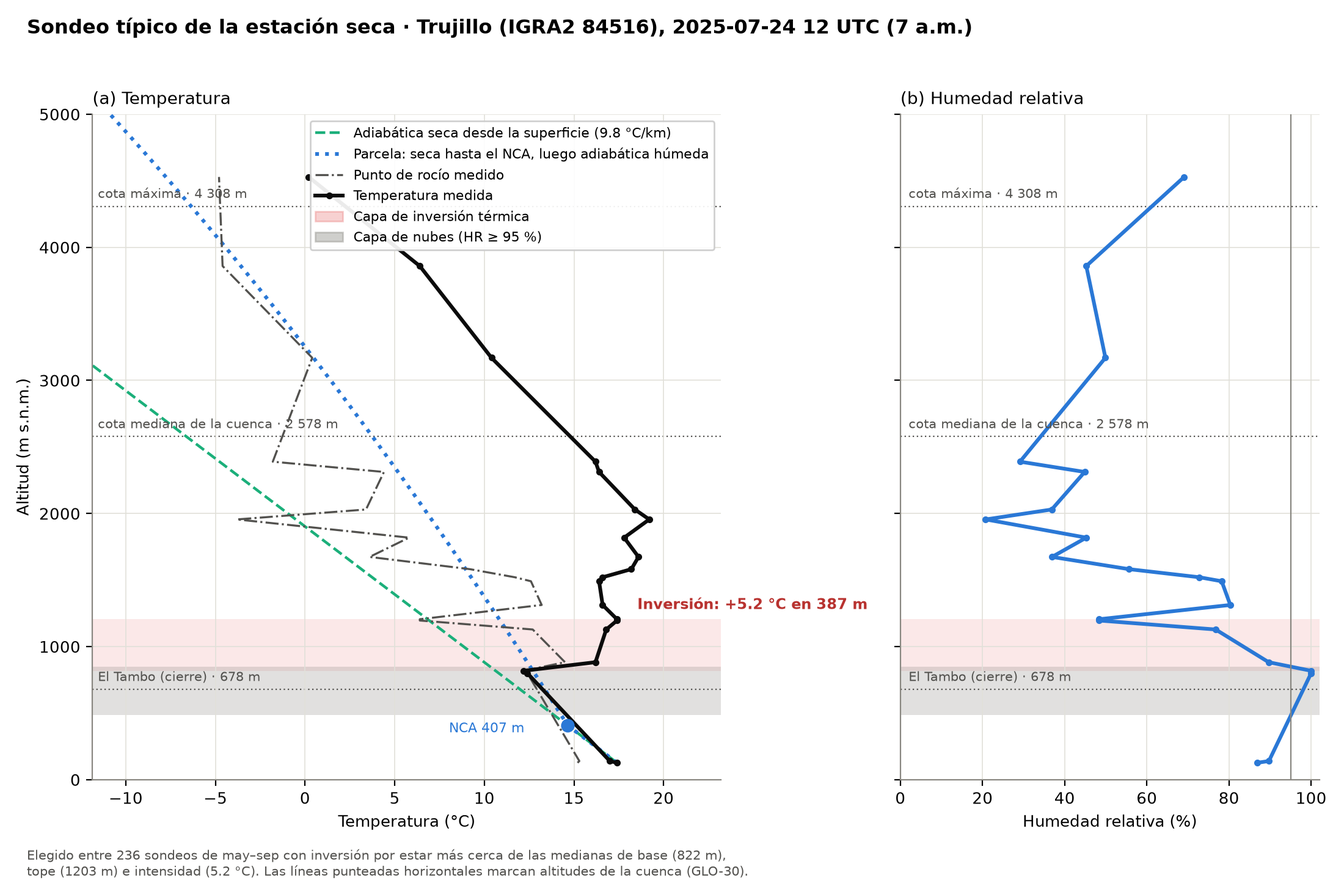
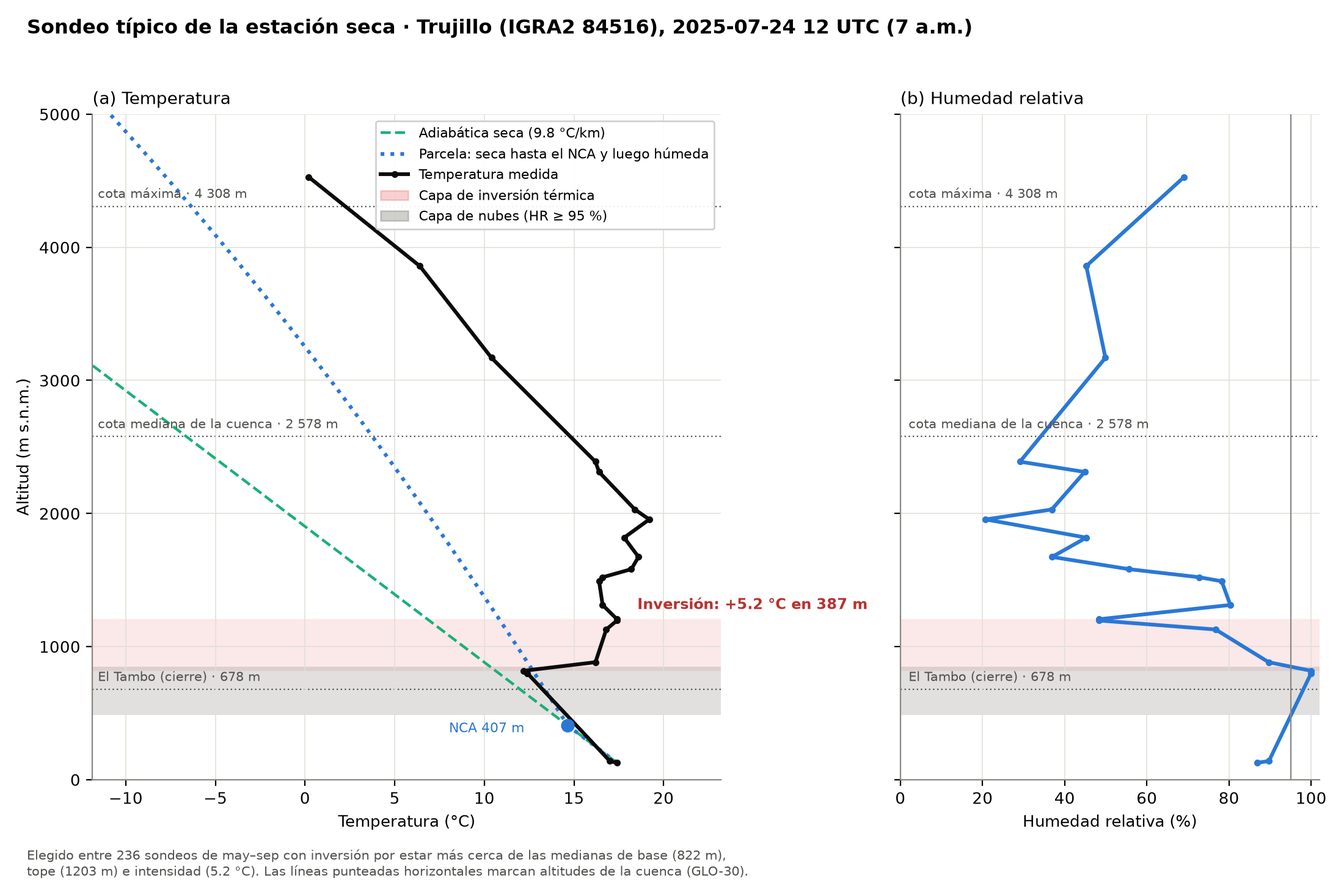
Contexto: humedad e inversión por temporada en una figura; DEM solo con ubicación
- 31_temporadas_humedad_inversion.py: por temporada (seca / húmeda), IVT de
  ERA5 y perfil de temperatura de los sondeos con la capa de inversión.
- Sondeo típico más limpio (sin punto de rocío).
- Mapa de la cuenca sin el recuadro de IVT; queda la ubicación regional.

Changed region(s): [[0.2164, 0.125, 0.4945, 0.2812], [0.3091, 0.6875, 0.4018, 0.7188], [0.4636, 0.25, 0.4945, 0.2812]]

diff --git a/index.html b/index.html
@@ -125,13 +125,13 @@ footer .wrap{padding-top:18px;padding-bottom:26px}
 </div></nav>
 <main><div class="wrap"><section class="panel" id="tab-cuenca" data-tab="cuenca" hidden><h2>La cuenca y su delimitación</h2><p class="intro">Río Chicama hasta la estación hidrométrica El Tambo (SENAMHI 211003; CAMELS-PE PE_47E0A2A8), en la vertiente del Pacífico del norte del Perú (−7.574°, −78.707°; 684 m s.n.m.). La cuenca se delimitó con el modelo digital de elevación Copernicus GLO-30; coincide con el polígono oficial de CAMELS-PE (intersección sobre unión 0.994).</p>
 <article class="fig">
-  <header class="fig-h"><h3>Mapa de la cuenca, relieve y fuentes de humedad</h3><span class="tipo">imagen</span></header>
-  <div class="fig-cuerpo"><button class="zoom" data-full="Tarea%201/El_Tambo/resultados/delimitacion/mapa_cuenca_el_tambo.png" aria-label="Ampliar: Mapa de la cuenca, relieve y fuentes de humedad"><img loading="lazy" src="web/img/mapa_cuenca_el_tambo.png" alt="Mapa de la cuenca, relieve y fuentes de humedad"></button></div>
+  <header class="fig-h"><h3>Mapa de la cuenca y relieve</h3><span class="tipo">imagen</span></header>
+  <div class="fig-cuerpo"><button class="zoom" data-full="Tarea%201/El_Tambo/resultados/delimitacion/mapa_cuenca_el_tambo.png" aria-label="Ampliar: Mapa de la cuenca y relieve"><img loading="lazy" src="web/img/mapa_cuenca_el_tambo.png" alt="Mapa de la cuenca y relieve"></button></div>
   <div class="fig-texto">
-    <div><h4>Qué muestra</h4><p>Relieve sombreado del DEM  límite de la cuenca  río Chicama  red de drenaje  punto de cierre y estaciones de SENAMHI. Área 2 170 km²  cotas de 678 a 4 308 m s.n.m. (mediana 2 578 m) y pendiente media de 27°. La integral hipsométrica (0.52) indica un <b>relieve intermedio</b>: la mitad del área está por encima de la cota media  a media ladera  y no concentrada en la cabecera ni en el valle bajo. <b>Fuentes de humedad.</b> El recuadro de Sudamérica muestra el transporte de vapor de ERA5 en la estación húmeda (dic–abr): la humedad sale del Atlántico tropical, cruza la Amazonía con los alisios del este y llega a la cuenca por encima de los Andes, desde el este. Por eso llueve más en las cabeceras del sureste y la lluvia se concentra en verano, cuando la convección sobre los Andes toma esa humedad. Del lado del Pacífico, el aire marino es frío y húmedo (corriente de Humboldt) pero queda atrapado bajo la inversión térmica, cerca de la salida de la cuenca (ver <i>Contexto físico</i>), así que aporta nubes bajas y poca lluvia.</p><p class="leer"><b>Cómo leerla.</b> El transporte de humedad no equivale a lluvia: llueve donde el flujo converge y asciende. ERA5 no resuelve la circulación dentro de los valles.</p></div>
-    <div><h4>Cómo se construyó</h4><p>Mosaico de dos teselas Copernicus GLO-30 (30 m), recortado y reproyectado a UTM 17S. El DEM se acondicionó (relleno de depresiones y zonas planas) y se calcularon direcciones de flujo D8 y área acumulada con pysheds; el punto de cierre se ajustó a la celda de mayor área acumulada en un radio de 1.5 km de la estación. La red de drenaje son las celdas con más de 5 km² de área drenada. Integral hipsométrica = (cota media − mínima) / (máxima − mínima). Recuadro: flujo de vapor integrado en la vertical (IVT) de ERA5 mensual (0.5°, promediado a 1°), media de dic–abr del periodo común; color = magnitud, flechas = dirección. Estaciones: mapa web de SENAMHI (copia del 2026-10-06).</p></div>
+    <div><h4>Qué muestra</h4><p>Relieve sombreado del DEM  límite de la cuenca  río Chicama  red de drenaje  punto de cierre  estaciones de SENAMHI y ubicación regional (Sudamérica y Perú). Área 2 170 km²  cotas de 678 a 4 308 m s.n.m. (mediana 2 578 m) y pendiente media de 27°. La integral hipsométrica (0.52) indica un <b>relieve intermedio</b>: la mitad del área está por encima de la cota media  a media ladera  y no concentrada en la cabecera ni en el valle bajo. Las fuentes de humedad se discuten en <i>Contexto físico</i>.</p></div>
+    <div><h4>Cómo se construyó</h4><p>Mosaico de dos teselas Copernicus GLO-30 (30 m), recortado y reproyectado a UTM 17S. El DEM se acondicionó (relleno de depresiones y zonas planas) y se calcularon direcciones de flujo D8 y área acumulada con pysheds; el punto de cierre se ajustó a la celda de mayor área acumulada en un radio de 1.5 km de la estación. La red de drenaje son las celdas con más de 5 km² de área drenada. Integral hipsométrica = (cota media − mínima) / (máxima − mínima). Estaciones: mapa web de SENAMHI (copia del 2026-10-06); límites: Natural Earth.</p></div>
   </div>
-  <p class="meta"><span class="script">06_delimitacion_el_tambo_glo30.py, 24_era5_vientos_humedad.py</span> · <a href="Tarea%201/El_Tambo/resultados/delimitacion/mapa_cuenca_el_tambo.png" target="_blank" rel="noopener">PNG en resolución completa</a> · Datos: <a href="Tarea%201/El_Tambo/resultados/delimitacion/parametros_morfometricos.csv" download>parametros_morfometricos.csv</a> · <a href="Tarea%201/El_Tambo/resultados/delimitacion/curva_hipsometrica.csv" download>curva_hipsometrica.csv</a> · <a href="Tarea%201/El_Tambo/resultados/delimitacion/estaciones_senamhi_mapa.csv" download>estaciones_senamhi_mapa.csv</a></p>
+  <p class="meta"><span class="script">06_delimitacion_el_tambo_glo30.py</span> · <a href="Tarea%201/El_Tambo/resultados/delimitacion/mapa_cuenca_el_tambo.png" target="_blank" rel="noopener">PNG en resolución completa</a> · Datos: <a href="Tarea%201/El_Tambo/resultados/delimitacion/parametros_morfometricos.csv" download>parametros_morfometricos.csv</a> · <a href="Tarea%201/El_Tambo/resultados/delimitacion/curva_hipsometrica.csv" download>curva_hipsometrica.csv</a> · <a href="Tarea%201/El_Tambo/resultados/delimitacion/estaciones_senamhi_mapa.csv" download>estaciones_senamhi_mapa.csv</a></p>
 </article><div class="tabla-cont"><h3>Parámetros morfométricos</h3><div class="scroll"><table class="dataframe tabla">
   <thead>
     <tr style="text-align: right;">
@@ -238,24 +238,24 @@ footer .wrap{padding-top:18px;padding-bottom:26px}
     <div><h4>Cómo se construyó</h4><p>(a) Orientación calculada del DEM GLO-30 a 30 m. (b) ESA WorldCover 2021 (10 m) remuestreado por moda a la malla del DEM. (c) Geología INGEMMET 1:100 000 descargada de GEOCATMIN; las 25 unidades se agruparon en 6 grupos hidrogeológicos según porosidad y permeabilidad esperadas, con colores de la convención IAH/UNESCO. (d) CHIRPS v2.0 mensual (0.05°) con la georreferencia corregida (+0.025° en longitud); media anual del periodo común en cada celda, interpolada de forma bilineal a la malla del DEM solo para dibujarla continua, con isoyetas cada 100 mm.</p></div>
   </div>
   <p class="meta"><span class="script">07a_descarga_contexto_fisico.py, 26_chirps_cuenca.py, 07b_mapas_contexto_fisico.py</span> · <a href="Tarea%201/El_Tambo/resultados/contexto_fisico/panel_contexto_fisico.png" target="_blank" rel="noopener">PNG en resolución completa</a> · Datos: <a href="Tarea%201/El_Tambo/resultados/contexto_fisico/ficha_contexto_fisico.csv" download>ficha_contexto_fisico.csv</a> · <a href="Tarea%201/El_Tambo/resultados/contexto_fisico/unidades_geologicas_cuenca.csv" download>unidades_geologicas_cuenca.csv</a> · <a href="Tarea%201/El_Tambo/resultados/series_mensuales/chirps_cuenca_mensual.csv" download>chirps_cuenca_mensual.csv</a></p>
-</article><h2 class="sub2">Inversión térmica sobre la costa y la cuenca</h2><p class="intro">Radiosondeos observados de Trujillo (IGRA2 84516, a ~40 km de la salida de la cuenca): 644 sondeos de las 7 a.m. entre 2024-10 y 2026-10. Hay inversión en el 91 % de ellos. En la estación seca su base está a unos 814 m, apenas por encima del cierre de la cuenca (678 m): casi toda la cuenca queda por encima de la inversión, en aire subsidente y seco.</p>
+</article><h2 class="sub2">Fuentes de humedad e inversión térmica</h2><p class="intro">Radiosondeos observados de Trujillo (IGRA2 84516, a ~40 km de la salida de la cuenca): 644 sondeos de las 7 a.m. entre 2024-10 y 2026-10, con inversión en el 91 % de ellos; y transporte de humedad de ERA5 en el periodo común.</p>
 <article class="fig">
   <header class="fig-h"><h3>Sondeo típico de la estación seca</h3><span class="tipo">imagen</span></header>
   <div class="fig-cuerpo"><button class="zoom" data-full="Tarea%201/El_Tambo/resultados/inversion/fig_sondeo_tipico_inversion.png" aria-label="Ampliar: Sondeo típico de la estación seca"><img loading="lazy" src="web/img/fig_sondeo_tipico_inversion.png" alt="Sondeo típico de la estación seca"></button></div>
   <div class="fig-texto">
-    <div><h4>Qué muestra</h4><p>La temperatura baja con la altura cerca de la adiabática seca hasta el nivel de condensación, donde se forman los estratocúmulos (HR ≈ 100 %). En la base de la inversión el aire se calienta de golpe, unos 5 °C, y por encima la humedad cae a menos del 50 %. Por debajo de la inversión hay aire marino frío y húmedo; por encima, aire de la troposfera libre que desciende y se calienta. La capa de nubes queda atrapada a la altura del cierre de la cuenca y no llega a la cuenca alta.</p></div>
-    <div><h4>Cómo se construyó</h4><p>Sondeo observado (temperatura y punto de rocío por nivel). Las alturas de los niveles significativos se calcularon con la ecuación hipsométrica desde la superficie y se ajustaron a la altura geopotencial de los niveles estándar. La inversión es el primer aumento continuo de T con la altura (≥ 1 °C). La parcela sube por la adiabática seca hasta el nivel de condensación por ascenso (NCA) y luego por la adiabática húmeda. Se eligió el sondeo de may–sep más cercano a las medianas de base, tope e intensidad de esa estación.</p></div>
+    <div><h4>Qué muestra</h4><p>La temperatura baja con la altura cerca de la adiabática seca hasta el nivel de condensación (NCA), donde se forman los estratocúmulos (HR ≈ 100 %). En la base de la inversión el aire se calienta de golpe, unos 5 °C, y por encima la humedad cae a menos del 50 %. Debajo queda el aire marino frío y húmedo; encima, aire de la troposfera libre que desciende y se calienta. La capa de nubes queda atrapada a la altura del cierre de la cuenca y no llega a la cuenca alta.</p></div>
+    <div><h4>Cómo se construyó</h4><p>Sondeo observado. Las alturas de los niveles significativos se calcularon con la ecuación hipsométrica desde la superficie y se ajustaron a la altura geopotencial de los niveles estándar. La inversión es el primer aumento continuo de T con la altura (≥ 1 °C); la capa de nubes, el tramo con HR ≥ 95 %. La parcela sube por la adiabática seca hasta el NCA y luego por la adiabática húmeda. Se eligió el sondeo de may–sep más cercano a las medianas de base, tope e intensidad de esa estación.</p></div>
   </div>
   <p class="meta"><span class="script">30a_descarga_perfiles.py, 30b_perfiles_inversion.py</span> · <a href="Tarea%201/El_Tambo/resultados/inversion/fig_sondeo_tipico_inversion.png" target="_blank" rel="noopener">PNG en resolución completa</a> · Datos: <a href="Tarea%201/El_Tambo/resultados/inversion/inversion_por_sondeo.csv" download>inversion_por_sondeo.csv</a></p>
 </article>
 <article class="fig">
-  <header class="fig-h"><h3>Perfiles por temporada y capa de inversión mes a mes</h3><span class="tipo">imagen</span></header>
-  <div class="fig-cuerpo"><button class="zoom" data-full="Tarea%201/El_Tambo/resultados/inversion/fig_perfiles_inversion.png" aria-label="Ampliar: Perfiles por temporada y capa de inversión mes a mes"><img loading="lazy" src="web/img/fig_perfiles_inversion.png" alt="Perfiles por temporada y capa de inversión mes a mes"></button></div>
+  <header class="fig-h"><h3>De dónde llega la humedad y qué la frena: estación seca frente a estación húmeda</h3><span class="tipo">imagen</span></header>
+  <div class="fig-cuerpo"><button class="zoom" data-full="Tarea%201/El_Tambo/resultados/inversion/fig_temporadas_humedad_inversion.png" aria-label="Ampliar: De dónde llega la humedad y qué la frena: estación seca frente a estación húmeda"><img loading="lazy" src="web/img/fig_temporadas_humedad_inversion.png" alt="De dónde llega la humedad y qué la frena: estación seca frente a estación húmeda"></button></div>
   <div class="fig-texto">
-    <div><h4>Qué muestra</h4><p>(a–b) En may–sep la inversión es fuerte (base 814 m, tope 1188 m, +5.0 °C, en el 95 % de los sondeos): debajo, HR ≈ 95 %; encima, el aire es seco (HR de ~40 % hacia 2 000–2 500 m, la cota mediana de la cuenca). En dic–abr la inversión es más baja y débil (base 338 m, tope 717 m, +2.4 °C) y a veces no aparece (solo el 70 % de los sondeos de Feb), y la troposfera sobre la cuenca es mucho más húmeda (HR ~80 %): es la estación de las lluvias. (c) La capa sube y se engrosa de mayo a noviembre y se rebaja en verano. Las líneas discontinuas son ERA5 (promedio mensual de las 12 UTC de 1998–2025 en la celda de Trujillo): en el periodo largo se mantiene el contraste entre temporadas (más cálido y seco sobre 1 500 m en may–sep), pero la inversión queda muy suavizada porque ERA5 promedia el mes y tiene niveles cada 25 hPa (~250 m). Los sondeos son la fuente para la base, el tope y la intensidad.</p><p class="leer"><b>Cómo leerla.</b> Los sondeos cubren solo dos años y son de las 7 a.m.; a mediodía la capa de mezcla crece y la inversión puede subir. La explicación física (anticiclón del Pacífico sur, corriente de Humboldt, afloramiento) debe sustentarse con bibliografía.</p></div>
-    <div><h4>Cómo se construyó</h4><p>Cada sondeo se interpoló a una malla vertical de 25 m y se calcularon mediana y rango intercuartílico por temporada (las mismas del ciclo anual: dic–abr, may–sep, oct–nov). En (c), las barras van de la mediana de la base a la del tope de cada mes; los segmentos son los rangos intercuartílicos y el porcentaje es la frecuencia de sondeos con inversión.</p></div>
+    <div><h4>Qué muestra</h4><p><b>La diferencia entre temporadas no está en cuánto vapor pasa sobre la cuenca, sino en si puede subir.</b> En ERA5 el transporte sobre la cuenca va hacia el oeste en las dos temporadas y no es menor en la seca (≈ 50 frente a 33 kg m⁻¹ s⁻¹), aunque la columna lleva menos agua precipitable (≈ 22 frente a 28 mm). <b>Estación seca (may–sep):</b> la inversión es fuerte (+5.0 °C) y está casi siempre (95 % de los días), con base a 814 m y tope a 1188 m, justo sobre el cierre: casi toda la cuenca queda en aire cálido y seco que desciende, y el vapor pasa sin condensar. Frente a la costa, el flujo del anticiclón del Pacífico corre paralelo a ella, de sureste a noroeste. <b>Estación húmeda (dic–abr):</b> el flujo del Atlántico cruza la Amazonía y al este de los Andes gira hacia el sur junto a la cordillera; la columna es más húmeda y la inversión es más baja y débil (+2.4 °C, 338–717 m, por debajo del cierre) y falta algunos días. Sobre la cuenca el perfil se enfría con la altura sin tapa, lo que permite la convección.</p><p class="leer"><b>Cómo leerla.</b> El transporte de humedad no equivale a lluvia: llueve donde el flujo converge y asciende. Los sondeos cubren dos años y son de las 7 a.m. La explicación física (anticiclón del Pacífico sur, corriente de Humboldt, convección andina) debe sustentarse con bibliografía.</p></div>
+    <div><h4>Cómo se construyó</h4><p>Izquierda: flujo de vapor de agua integrado en la vertical (IVT) de ERA5 mensual (0.5°, promediado a 1°), media de cada temporada en el periodo común; color = magnitud, flechas = dirección. Derecha: radiosondeos de Trujillo interpolados a una malla vertical de 25 m; mediana y rango intercuartílico de la temporada, adiabática seca de referencia desde la superficie y capa de inversión entre las medianas de base y tope de los sondeos con inversión. Mismas escalas en las dos filas.</p></div>
   </div>
-  <p class="meta"><span class="script">30a_descarga_perfiles.py, 30b_perfiles_inversion.py</span> · <a href="Tarea%201/El_Tambo/resultados/inversion/fig_perfiles_inversion.png" target="_blank" rel="noopener">PNG en resolución completa</a> · Datos: <a href="Tarea%201/El_Tambo/resultados/inversion/inversion_resumen_mensual.csv" download>inversion_resumen_mensual.csv</a> · <a href="Tarea%201/El_Tambo/resultados/inversion/perfiles_compuestos_temporada.csv" download>perfiles_compuestos_temporada.csv</a></p>
+  <p class="meta"><span class="script">24_era5_vientos_humedad.py, 30b_perfiles_inversion.py, 31_temporadas_humedad_inversion.py</span> · <a href="Tarea%201/El_Tambo/resultados/inversion/fig_temporadas_humedad_inversion.png" target="_blank" rel="noopener">PNG en resolución completa</a> · Datos: <a href="Tarea%201/El_Tambo/resultados/inversion/perfiles_compuestos_temporada.csv" download>perfiles_compuestos_temporada.csv</a> · <a href="Tarea%201/El_Tambo/resultados/inversion/inversion_resumen_mensual.csv" download>inversion_resumen_mensual.csv</a></p>
 </article></section><section class="panel" id="tab-p11" data-tab="p11" hidden><h2>Punto 1.1 · Series mensuales de precipitación, caudal y temperatura</h2><p class="intro">Series construidas desde los registros diarios de CAMELS-PE en el <b>periodo común 1998-01 a 2025-08</b> (332 meses: los meses con precipitación de CAMELS-PE y de IMERG a la vez). Use la rueda o arrastre para hacer zoom, la barra inferior para elegir un intervalo y doble clic para volver a la vista completa.</p>
 <article class="fig">
   <header class="fig-h"><h3>Series mensuales en paneles alineados</h3><span class="tipo int">interactiva</span></header>
@@ -738,7 +738,7 @@ footer .wrap{padding-top:18px;padding-bottom:26px}
       <td>10 m / vectorial</td>
     </tr>
   </tbody>
-</table></div></div><div class="tabla-cont"><h3>Cómo reproducir</h3><p>Con Python 3 y las dependencias de <code>requirements.txt</code>, ejecute en <code>Hidrologiat1/Codigos/</code>, en este orden: <code>06 → 07a → 13 → 14 → 09 → 10 → 28 → 26 → 07b → 11 → 12 → 17 → 15 → 16 → 18 → 19 → 20 → 21 → 23 → 24 → 25 → 27 → 30a → 30b → 29</code>. Antes del 06 hay que descargar las dos teselas de GLO-30 (ver <code>README.md</code>). Las descargas de IMERG y ERA5/ERA5-Land requieren cuentas personales (NASA Earthdata y Copernicus CDS), cuyas credenciales no se incluyen en el repositorio. El detalle de cada conjunto de datos está en <a href="DATOS.md">DATOS.md</a>.</p></div></section></div></main>
+</table></div></div><div class="tabla-cont"><h3>Cómo reproducir</h3><p>Con Python 3 y las dependencias de <code>requirements.txt</code>, ejecute en <code>Hidrologiat1/Codigos/</code>, en este orden: <code>06 → 07a → 13 → 14 → 09 → 10 → 28 → 26 → 07b → 11 → 12 → 17 → 15 → 16 → 18 → 19 → 20 → 21 → 23 → 24 → 25 → 27 → 30a → 30b → 31 → 29</code>. Antes del 06 hay que descargar las dos teselas de GLO-30 (ver <code>README.md</code>). Las descargas de IMERG y ERA5/ERA5-Land requieren cuentas personales (NASA Earthdata y Copernicus CDS), cuyas credenciales no se incluyen en el repositorio. El detalle de cada conjunto de datos está en <a href="DATOS.md">DATOS.md</a>.</p></div></section></div></main>
 <footer><div class="wrap">
 Página generada el 2026-10-11 con <code>Hidrologiat1/Codigos/29_pagina_web.py</code> a partir de los archivos
 de resultados. Las gráficas marcadas «interactiva» se dibujan con Plotly desde los CSV; las marcadas «imagen» son las figuras

diff --git a/Hidrologiat1/Codigos/29_pagina_web.py b/Hidrologiat1/Codigos/29_pagina_web.py
@@ -297,47 +297,47 @@ if (INV / "inversion_por_sondeo.csv").exists():
               bh=hum.base_m.median(), th=hum.tope_m.median(), dh=hum.intensidad_C.median(),
               hrb=sec.HR_bajo_base.median(), hrs=sec.HR_sobre_tope.median(),
               fmin=rm.frecuencia_pct.min(), mmin=MESES[int(rm.frecuencia_pct.idxmin()) - 1])
-    era5_txt = (" Las líneas discontinuas son ERA5 (promedio mensual de las 12 UTC de 1998–2025 en la celda de Trujillo): "
-                "en el periodo largo se mantiene el contraste entre temporadas (más cálido y seco sobre 1 500 m en may–sep), "
-                "pero la inversión queda muy suavizada porque ERA5 promedia el mes y tiene niveles cada 25 hPa (~250 m). Los "
-                "sondeos son la fuente para la base, el tope y la intensidad."
-                if (PROY / "Tarea 1" / "El_Tambo" / "datos" / "era5_perfiles" / "ERA5_perfiles_12UTC_mensual.nc").exists() else "")
     inversion_html = (
-        '<h2 class="sub2">Inversión térmica sobre la costa y la cuenca</h2>'
+        '<h2 class="sub2">Fuentes de humedad e inversión térmica</h2>'
         f'<p class="intro">Radiosondeos observados de Trujillo (IGRA2 84516, a ~40 km de la salida de la cuenca): {IV["n"]} '
-        f'sondeos de las 7 a.m. entre {IV["ini"]} y {IV["fin"]}. Hay inversión en el {IV["f"]:.0f} % de ellos. En la estación '
-        f'seca su base está a unos {IV["bs"]:.0f} m, apenas por encima del cierre de la cuenca (678 m): casi toda la cuenca '
-        f'queda por encima de la inversión, en aire subsidente y seco.</p>'
+        f'sondeos de las 7 a.m. entre {IV["ini"]} y {IV["fin"]}, con inversión en el {IV["f"]:.0f} % de ellos; y transporte '
+        f'de humedad de ERA5 en el periodo común.</p>'
         + tarjeta("Sondeo típico de la estación seca",
-                  f"La temperatura baja con la altura cerca de la adiabática seca hasta el nivel de condensación, donde se "
-                  f"forman los estratocúmulos (HR ≈ 100 %). En la base de la inversión el aire se calienta de golpe, unos "
-                  f"{IV['ds']:.0f} °C, y por encima la humedad cae a menos del 50 %. Por debajo de la inversión hay aire marino "
-                  f"frío y húmedo; por encima, aire de la troposfera libre que desciende y se calienta. La capa de nubes "
-                  f"queda atrapada a la altura del cierre de la cuenca y no llega a la cuenca alta.",
-                  "Sondeo observado (temperatura y punto de rocío por nivel). Las alturas de los niveles significativos se "
-                  "calcularon con la ecuación hipsométrica desde la superficie y se ajustaron a la altura geopotencial de los "
-                  "niveles estándar. La inversión es el primer aumento continuo de T con la altura (≥ 1 °C). La parcela sube por "
-                  "la adiabática seca hasta el nivel de condensación por ascenso (NCA) y luego por la adiabática húmeda. Se eligió "
-                  "el sondeo de may–sep más cercano a las medianas de base, tope e intensidad de esa estación.",
+                  f"La temperatura baja con la altura cerca de la adiabática seca hasta el nivel de condensación (NCA), donde "
+                  f"se forman los estratocúmulos (HR ≈ 100 %). En la base de la inversión el aire se calienta de golpe, unos "
+                  f"{IV['ds']:.0f} °C, y por encima la humedad cae a menos del 50 %. Debajo queda el aire marino frío y "
+                  f"húmedo; encima, aire de la troposfera libre que desciende y se calienta. La capa de nubes queda atrapada a "
+                  f"la altura del cierre de la cuenca y no llega a la cuenca alta.",
+                  "Sondeo observado. Las alturas de los niveles significativos se calcularon con la ecuación hipsométrica "
+                  "desde la superficie y se ajustaron a la altura geopotencial de los niveles estándar. La inversión es el "
+                  "primer aumento continuo de T con la altura (≥ 1 °C); la capa de nubes, el tramo con HR ≥ 95 %. La parcela "
+                  "sube por la adiabática seca hasta el NCA y luego por la adiabática húmeda. Se eligió el sondeo de may–sep "
+                  "más cercano a las medianas de base, tope e intensidad de esa estación.",
                   "30a_descarga_perfiles.py, 30b_perfiles_inversion.py", png=INV / "fig_sondeo_tipico_inversion.png",
                   csvs=[INV / "inversion_por_sondeo.csv"])
-        + tarjeta("Perfiles por temporada y capa de inversión mes a mes",
-                  f"(a–b) En may–sep la inversión es fuerte (base {IV['bs']:.0f} m, tope {IV['ts']:.0f} m, +{IV['ds']:.1f} °C, "
-                  f"en el {IV['fs']:.0f} % de los sondeos): debajo, HR ≈ {IV['hrb']:.0f} %; encima, el aire es seco (HR de "
-                  f"~40 % hacia 2 000–2 500 m, la cota mediana de la cuenca). En dic–abr la inversión es más baja y débil "
-                  f"(base {IV['bh']:.0f} m, tope {IV['th']:.0f} m, +{IV['dh']:.1f} °C) y a veces no aparece (solo el "
-                  f"{IV['fmin']:.0f} % de los sondeos de {IV['mmin']}), y la troposfera sobre la cuenca es mucho más húmeda "
-                  f"(HR ~80 %): es la estación de las lluvias. (c) La capa sube y se engrosa de mayo a noviembre y se rebaja en "
-                  f"verano.{era5_txt}",
-                  "Cada sondeo se interpoló a una malla vertical de 25 m y se calcularon mediana y rango intercuartílico por "
-                  "temporada (las mismas del ciclo anual: dic–abr, may–sep, oct–nov). En (c), las barras van de la mediana de la "
-                  "base a la del tope de cada mes; los segmentos son los rangos intercuartílicos y el porcentaje es la "
-                  "frecuencia de sondeos con inversión.",
-                  "30a_descarga_perfiles.py, 30b_perfiles_inversion.py", png=INV / "fig_perfiles_inversion.png",
-                  csvs=[INV / "inversion_resumen_mensual.csv", INV / "perfiles_compuestos_temporada.csv"],
-                  leer_="Los sondeos cubren solo dos años y son de las 7 a.m.; a mediodía la capa de mezcla crece y la "
-                        "inversión puede subir. La explicación física (anticiclón del Pacífico sur, corriente de Humboldt, "
-                        "afloramiento) debe sustentarse con bibliografía."))
+        + tarjeta("De dónde llega la humedad y qué la frena: estación seca frente a estación húmeda",
+                  f"<b>La diferencia entre temporadas no está en cuánto vapor pasa sobre la cuenca, sino en si puede subir.</b> "
+                  f"En ERA5 el transporte sobre la cuenca va hacia el oeste en las dos temporadas y no es menor en la seca "
+                  f"(≈ 50 frente a 33 kg m⁻¹ s⁻¹), aunque la columna lleva menos agua precipitable (≈ 22 frente a 28 mm). "
+                  f"<b>Estación seca (may–sep):</b> la inversión es fuerte (+{IV['ds']:.1f} °C) y está casi siempre "
+                  f"({IV['fs']:.0f} % de los días), con base a {IV['bs']:.0f} m y tope a {IV['ts']:.0f} m, justo sobre el "
+                  f"cierre: casi toda la cuenca queda en aire cálido y seco que desciende, y el vapor pasa sin condensar. "
+                  f"Frente a la costa, el flujo del anticiclón del Pacífico corre paralelo a ella, de sureste a noroeste. "
+                  f"<b>Estación húmeda (dic–abr):</b> el flujo del Atlántico cruza la Amazonía y al este de los Andes gira "
+                  f"hacia el sur junto a la cordillera; la columna es más húmeda y la inversión es más baja y débil "
+                  f"(+{IV['dh']:.1f} °C, {IV['bh']:.0f}–{IV['th']:.0f} m, por debajo del cierre) y falta algunos días. "
+                  f"Sobre la cuenca el perfil se enfría con la altura sin tapa, lo que permite la convección.",
+                  "Izquierda: flujo de vapor de agua integrado en la vertical (IVT) de ERA5 mensual (0.5°, promediado a 1°), "
+                  "media de cada temporada en el periodo común; color = magnitud, flechas = dirección. Derecha: radiosondeos de "
+                  "Trujillo interpolados a una malla vertical de 25 m; mediana y rango intercuartílico de la temporada, "
+                  "adiabática seca de referencia desde la superficie y capa de inversión entre las medianas de base y tope "
+                  "de los sondeos con inversión. Mismas escalas en las dos filas.",
+                  "24_era5_vientos_humedad.py, 30b_perfiles_inversion.py, 31_temporadas_humedad_inversion.py",
+                  png=INV / "fig_temporadas_humedad_inversion.png",
+                  csvs=[INV / "perfiles_compuestos_temporada.csv", INV / "inversion_resumen_mensual.csv"],
+                  leer_="El transporte de humedad no equivale a lluvia: llueve donde el flujo converge y asciende. Los "
+                        "sondeos cubren dos años y son de las 7 a.m. La explicación física (anticiclón del Pacífico sur, "
+                        "corriente de Humboldt, convección andina) debe sustentarse con bibliografía."))
 
 HI = (float(morf["Cota media (m s.n.m.)"]) - float(morf["Cota mínima (m s.n.m.)"])) / (
     float(morf["Cota máxima (m s.n.m.)"]) - float(morf["Cota mínima (m s.n.m.)"]))
@@ -345,30 +345,22 @@ pestana("cuenca", "Cuenca", "La cuenca y su delimitación",
         "Río Chicama hasta la estación hidrométrica El Tambo (SENAMHI 211003; CAMELS-PE PE_47E0A2A8), en la vertiente "
         "del Pacífico del norte del Perú (−7.574°, −78.707°; 684 m s.n.m.). La cuenca se delimitó con el modelo digital "
         "de elevación Copernicus GLO-30; coincide con el polígono oficial de CAMELS-PE (intersección sobre unión 0.994).",
-        tarjeta("Mapa de la cuenca, relieve y fuentes de humedad",
-                f"Relieve sombreado del DEM, límite de la cuenca, río Chicama, red de drenaje, punto de cierre y estaciones de "
-                f"SENAMHI. Área {float(morf['Área A (km2)']):,.0f} km², cotas de {float(morf['Cota mínima (m s.n.m.)']):,.0f} a "
-                f"{float(morf['Cota máxima (m s.n.m.)']):,.0f} m s.n.m. (mediana {float(morf['Cota mediana (m s.n.m.)']):,.0f} m) "
-                f"y pendiente media de {float(morf['Pendiente media de la cuenca (°)']):.0f}°. La integral hipsométrica "
-                f"({HI:.2f}) indica un <b>relieve intermedio</b>: la mitad del área está por encima de la cota media, a media "
-                f"ladera, y no concentrada en la cabecera ni en el valle bajo.".replace(",", " ")
-                + " <b>Fuentes de humedad.</b> El recuadro de Sudamérica muestra el transporte de vapor de ERA5 en la estación "
-                "húmeda (dic–abr): la humedad sale del Atlántico tropical, cruza la Amazonía con los alisios del este y llega a "
-                "la cuenca por encima de los Andes, desde el este. Por eso llueve más en las cabeceras del sureste y la lluvia "
-                "se concentra en verano, cuando la convección sobre los Andes toma esa humedad. Del lado del Pacífico, el aire "
-                "marino es frío y húmedo (corriente de Humboldt) pero queda atrapado bajo la inversión térmica, cerca de la "
-                "salida de la cuenca (ver <i>Contexto físico</i>), así que aporta nubes bajas y poca lluvia.",
+        tarjeta("Mapa de la cuenca y relieve",
+                f"Relieve sombreado del DEM, límite de la cuenca, río Chicama, red de drenaje, punto de cierre, estaciones de "
+                f"SENAMHI y ubicación regional (Sudamérica y Perú). Área {float(morf['Área A (km2)']):,.0f} km², cotas de "
+                f"{float(morf['Cota mínima (m s.n.m.)']):,.0f} a {float(morf['Cota máxima (m s.n.m.)']):,.0f} m s.n.m. "
+                f"(mediana {float(morf['Cota mediana (m s.n.m.)']):,.0f} m) y pendiente media de "
+                f"{float(morf['Pendiente media de la cuenca (°)']):.0f}°. La integral hipsométrica ({HI:.2f}) indica un "
+                f"<b>relieve intermedio</b>: la mitad del área está por encima de la cota media, a media ladera, y no "
+                f"concentrada en la cabecera ni en el valle bajo. Las fuentes de humedad se discuten en <i>Contexto físico</i>."
+                .replace(",", " "),
                 "Mosaico de dos teselas Copernicus GLO-30 (30 m), recortado y reproyectado a UTM 17S. El DEM se acondicionó "
                 "(relleno de depresiones y zonas planas) y se calcularon direcciones de flujo D8 y área acumulada con pysheds; "
                 "el punto de cierre se ajustó a la celda de mayor área acumulada en un radio de 1.5 km de la estación. La red "
                 "de drenaje son las celdas con más de 5 km² de área drenada. Integral hipsométrica = (cota media − mínima) / "
-                "(máxima − mínima). Recuadro: flujo de vapor integrado en la vertical (IVT) de ERA5 mensual (0.5°, promediado "
-                "a 1°), media de dic–abr del periodo común; color = magnitud, flechas = dirección. Estaciones: mapa web de "
-                "SENAMHI (copia del 2026-10-06).",
-                "06_delimitacion_el_tambo_glo30.py, 24_era5_vientos_humedad.py", png=DL / "mapa_cuenca_el_tambo.png",
-                csvs=[DL / "parametros_morfometricos.csv", DL / "curva_hipsometrica.csv", DL / "estaciones_senamhi_mapa.csv"],
-                leer_="El transporte de humedad no equivale a lluvia: llueve donde el flujo converge y asciende. ERA5 no "
-                      "resuelve la circulación dentro de los valles.")
+                "(máxima − mínima). Estaciones: mapa web de SENAMHI (copia del 2026-10-06); límites: Natural Earth.",
+                "06_delimitacion_el_tambo_glo30.py", png=DL / "mapa_cuenca_el_tambo.png",
+                csvs=[DL / "parametros_morfometricos.csv", DL / "curva_hipsometrica.csv", DL / "estaciones_senamhi_mapa.csv"])
         + tabla(tmorf, "Parámetros morfométricos", "Calculados sobre el DEM GLO-30 en UTM 17S (script 06)."))
 
 pestana("contexto", "Contexto físico", "Contexto físico",
@@ -658,7 +650,7 @@ pestana("datos", "Datos", "Datos y reproducibilidad",
         tabla(fuentes, "Fuentes de datos")
         + '<div class="tabla-cont"><h3>Cómo reproducir</h3><p>Con Python 3 y las dependencias de <code>requirements.txt</code>, '
           'ejecute en <code>Hidrologiat1/Codigos/</code>, en este orden: <code>06 → 07a → 13 → 14 → 09 → 10 → 28 → 26 → 07b → '
-          '11 → 12 → 17 → 15 → 16 → 18 → 19 → 20 → 21 → 23 → 24 → 25 → 27 → 30a → 30b → 29</code>. Antes del 06 hay que descargar las dos '
+          '11 → 12 → 17 → 15 → 16 → 18 → 19 → 20 → 21 → 23 → 24 → 25 → 27 → 30a → 30b → 31 → 29</code>. Antes del 06 hay que descargar las dos '
           'teselas de GLO-30 (ver <code>README.md</code>). Las descargas de IMERG y ERA5/ERA5-Land requieren cuentas '
           'personales (NASA Earthdata y Copernicus CDS), cuyas credenciales no se incluyen en el repositorio. El detalle de '
           'cada conjunto de datos está en <a href="DATOS.md">DATOS.md</a>.</p></div>')

diff --git a/Hidrologiat1/Codigos/31_temporadas_humedad_inversion.py b/Hidrologiat1/Codigos/31_temporadas_humedad_inversion.py
@@ -1,0 +1,126 @@
+"""
+Estación seca frente a estación húmeda: de dónde llega la humedad y qué la frena sobre la cuenca El Tambo.
+
+Una fila por temporada (may–sep seca arriba, dic–abr húmeda abajo):
+  - Izquierda: transporte de vapor integrado en la vertical (IVT) de ERA5, climatología del periodo común
+    (color = magnitud, flechas = dirección). Entrada: script 24.
+  - Derecha: perfil vertical de temperatura sobre la costa de Trujillo (radiosondeos IGRA2 84516, 12 UTC):
+    mediana y rango intercuartílico de la temporada, adiabática seca de referencia desde la superficie y capa de
+    inversión (medianas de base y tope de los sondeos con inversión), con las altitudes de la cuenca.
+    Entrada: script 30b.
+Mismas escalas en las dos filas para comparar directamente.
+
+Salida: Tarea 1/El_Tambo/resultados/inversion/fig_temporadas_humedad_inversion.png
+"""
+from pathlib import Path
+
+import numpy as np
+import pandas as pd
+import geopandas as gpd
+import xarray as xr
+import matplotlib
+matplotlib.use("Agg")
+import matplotlib.pyplot as plt
+from matplotlib.patches import Patch
+from matplotlib.lines import Line2D
+
+from periodo_comun import periodo_comun
+
+ROOT = Path(__file__).resolve().parents[2] / "Tarea 1" / "El_Tambo"
+CLIM = ROOT / "datos" / "era5" / "era5_viento_ivt_climatologia_estacional.nc"
+INV = ROOT / "resultados" / "inversion"
+DL = ROOT / "resultados" / "delimitacion"
+INI, FIN = periodo_comun()
+
+TEMP = [("may–sep (seca)", "may-sep", "Estación seca (may–sep)"),
+        ("dic–abr (húmeda)", "dic-abr", "Estación húmeda (dic–abr)")]
+COL = {"may–sep (seca)": "#eb6834", "dic–abr (húmeda)": "#2a78d6"}
+LON, LAT = (-100, -30), (-35, 15)
+PASO = 3
+
+clim = xr.open_dataset(CLIM)
+paises = gpd.read_file(ROOT / "datos" / "ne_50m_admin_0_countries.geojson")
+cuenca = gpd.read_file(DL / "cuenca_el_tambo_glo30.gpkg").to_crs(4326)
+cen = cuenca.geometry.iloc[0].centroid
+comp = pd.read_csv(INV / "perfiles_compuestos_temporada.csv")
+sond = pd.read_csv(INV / "inversion_por_sondeo.csv", parse_dates=["fecha"])
+morf = pd.read_csv(DL / "parametros_morfometricos.csv", index_col=0)["valor"]
+Z_REF = [(float(morf["Cota cierre (m)"]), "El Tambo (cierre)"),
+         (float(morf["Cota mediana (m s.n.m.)"]), "cota mediana de la cuenca"),
+         (float(morf["Cota máxima (m s.n.m.)"]), "cota máxima")]
+VMAX = float(clim["ivt"].sel(estacion=["dic-abr", "may-sep"]).quantile(0.99))
+
+plt.rcParams.update({"font.size": 9.5})
+fig = plt.figure(figsize=(13, 11))
+gs = fig.add_gridspec(2, 2, width_ratios=[1.55, 1], hspace=0.28, wspace=0.26)
+for fila, (t, est, titulo) in enumerate(TEMP):
+    # --- transporte de humedad
+    ax = fig.add_subplot(gs[fila, 0])
+    d = clim.sel(estacion=est, lon=slice(*LON), lat=slice(*LAT))
+    m = ax.pcolormesh(d.lon, d.lat, d["ivt"], cmap="YlGnBu", vmin=0, vmax=VMAX, shading="nearest")
+    paises.boundary.plot(ax=ax, color="#333333", lw=0.4)
+    s = slice(None, None, PASO)
+    q = ax.quiver(d.lon[s], d.lat[s], d["ivt_e"][s, s], d["ivt_n"][s, s], scale=2500, width=0.0028, color="#1d1d1b")
+    ax.add_patch(matplotlib.patches.Rectangle((0.015, 0.015), 0.36, 0.08, transform=ax.transAxes, fc="white",
+                                              ec="#999999", lw=0.5, alpha=0.92, zorder=7))
+    ax.quiverkey(q, 0.15, 0.055, 250, "250 kg m⁻¹ s⁻¹", labelpos="E", coordinates="axes",
+                 fontproperties={"size": 8}, zorder=8)
+    cuenca.plot(ax=ax, color="red", zorder=5)
+    ax.plot(cen.x, cen.y, "o", ms=10, mfc="none", mec="red", mew=1.8, zorder=6)
+    ax.set(xlim=LON, ylim=LAT, xlabel="", ylabel="")
+    ax.set_xticks(range(-100, -29, 10))
+    ax.set_xticklabels([f"{-x}° O" for x in range(-100, -29, 10)], fontsize=8)
+    ax.set_yticks(range(-30, 16, 10))
+    ax.set_yticklabels([f"{abs(y)}° {'S' if y < 0 else 'N' if y > 0 else ''}" for y in range(-30, 16, 10)], fontsize=8)
+    ax.set_aspect("equal")
+    ax.set_title(f"({'a' if fila == 0 else 'c'}) {titulo} · transporte de humedad (IVT, ERA5)", loc="left",
+                 fontsize=10.5, fontweight="bold")
+    cb = fig.colorbar(m, ax=ax, fraction=0.035, pad=0.015)
+    cb.set_label("IVT (kg m⁻¹ s⁻¹)", fontsize=8.5)
+    cb.ax.tick_params(labelsize=7.5)
+
+    # --- perfil de temperatura
+    a2 = fig.add_subplot(gs[fila, 1])
+    z = comp["z_m"].values
+    med, q1, q3 = comp[f"{t}|T_med"].values, comp[f"{t}|T_q1"].values, comp[f"{t}|T_q3"].values
+    sv = sond[(sond.temporada == t)]
+    si = sv[sv.inversion]
+    base, tope = si.base_m.median(), si.tope_m.median()
+    a2.axhspan(base, tope, color="#e34948", alpha=0.15, lw=0, zorder=0)
+    a2.fill_betweenx(z, q1, q3, color=COL[t], alpha=0.18, lw=0)
+    a2.plot(med, z, color=COL[t], lw=2.4)
+    ok = np.isfinite(med)
+    z0, t0 = z[ok][0], med[ok][0]
+    zz = np.array([z0, 5000])
+    a2.plot(t0 - 9.8e-3 * (zz - z0), zz, color="#52514e", lw=1.2, ls="--")
+    for zr, txt in Z_REF:
+        a2.axhline(zr, color="#52514e", lw=0.8, ls=(0, (1, 2)))
+        a2.text(-1.6, zr + 40, f"{txt} · {zr:,.0f} m".replace(",", " "), fontsize=7.5, color="#52514e")
+    a2.text(0.97, 0.70, f"inversión +{si.intensidad_C.median():.1f} °C\n{base:.0f}–{tope:.0f} m · "
+            f"{100 * sv.inversion.mean():.0f} % de los días", ha="right", va="center", fontsize=8.5,
+            color="#b8322f", fontweight="bold", transform=a2.transAxes,
+            bbox=dict(fc="white", ec="#e34948", lw=0.6, alpha=0.9))
+    a2.set(xlim=(-2, 26), ylim=(0, 5000), xlabel="Temperatura (°C)", ylabel="Altitud (m s.n.m.)")
+    a2.grid(color="#e1e0d9", lw=0.6)
+    for sp in ("top", "right"):
+        a2.spines[sp].set_visible(False)
+    a2.set_title(f"({'b' if fila == 0 else 'd'}) Perfil de temperatura (n = {len(sv)} sondeos)",
+                 loc="left", fontsize=10.5, fontweight="bold")
+    if fila == 0:
+        a2.legend([Line2D([], [], color="#0b0b0b", lw=2.4), Patch(color="#898781", alpha=0.3),
+                   Line2D([], [], color="#52514e", lw=1.2, ls="--"), Patch(color="#e34948", alpha=0.3)],
+                  ["Mediana de los sondeos (7 a.m.)", "Rango intercuartílico", "Adiabática seca (9.8 °C/km)",
+                   "Capa de inversión (base–tope)"], loc="upper right", fontsize=7.8, framealpha=0.92)
+
+fig.suptitle("De dónde llega la humedad y qué la frena: estación seca frente a estación húmeda",
+             fontsize=13, fontweight="bold", x=0.02, ha="left", y=0.975)
+fig.text(0.02, 0.012,
+         f"IVT: flujo de vapor de agua integrado en la vertical, ERA5 mensual {INI:%Y-%m} a {FIN:%Y-%m} (malla de 1°), "
+         f"una flecha cada {PASO}°; contorno rojo: cuenca El Tambo. Perfiles: radiosondeos IGRA2 84516 (Trujillo, a ~40 km "
+         f"de la salida de la cuenca),\n{sond.fecha.min():%Y-%m} a {sond.fecha.max():%Y-%m}, 12 UTC; inversión = primer "
+         "aumento continuo de T con la altura desde la superficie (≥ 1 °C, < 3 500 m). Scripts 24, 30a, 30b y 31.",
+         fontsize=7.5, color="#52514e")
+fig.subplots_adjust(left=0.05, right=0.985, top=0.92, bottom=0.07)
+OUT = INV / "fig_temporadas_humedad_inversion.png"
+fig.savefig(OUT, dpi=200)
+print("Figura:", OUT)

diff --git a/Hidrologiat1/Codigos/06_delimitacion_el_tambo_glo30.py b/Hidrologiat1/Codigos/06_delimitacion_el_tambo_glo30.py
@@ -395,10 +395,7 @@ ax.set_title(f"Cuenca del río Chicama hasta la estación {GAUGE_NAME} ({GID})\n
 ax.text(0.5, -0.165, cats_txt + "\nCoordenadas geográficas WGS 84 (EPSG:4326)  ·  Delimitación "
         "y morfometría calculadas en WGS 84 / UTM 17S (EPSG:32717)\nFuente DEM: Copernicus "
         "GLO-30 DSM (ESA/Airbus)  ·  Red de drenaje derivada con D8 (pysheds)  ·  Estaciones: "
-        "CAMELS-PE v1.0.1 y red SENAMHI (mapa web, consulta 2026-10)  ·  Límites: Natural Earth\n"
-        "Recuadro de Sudamérica: flujo de vapor de agua integrado en la vertical (IVT) de ERA5, media dic–abr "
-        "del periodo común 1998-01 a 2025-08; color = magnitud, flechas = dirección\n(una cada 4°, malla de 1°). "
-        "Estación seca y viento en 500 hPa: mapa_transporte_humedad_era5.png (scripts 24 y 25)",
+        "CAMELS-PE v1.0.1 y red SENAMHI (mapa web, consulta 2026-10)  ·  Límites: Natural Earth",
         transform=ax.transAxes, ha="center", va="top", fontsize=7.5)
 
 # Mapas de ubicación: Sudamérica y Perú
@@ -410,31 +407,10 @@ countries[countries["CONTINENT"] == "South America"].plot(ax=ax_sa, color="#eeee
 peru.plot(ax=ax_sa, color="#d9c9a3", edgecolor="#555555", linewidth=0.5)
 ax_sa.add_patch(Rectangle(PERU_BOX[:2], PERU_BOX[2] - PERU_BOX[0], PERU_BOX[3] - PERU_BOX[1],
                           fill=False, edgecolor="red", linewidth=1))
-# Transporte de humedad de ERA5 en la estación húmeda (IVT dic–abr, periodo común; script 24).
-# Si la climatología aún no existe (el script 24 corre después de 09 y 10), el recuadro queda sin vectores.
-if ERA5_CLIM.exists():
-    clim = xr.open_dataset(ERA5_CLIM).sel(estacion="dic-abr", lon=slice(-92, -32), lat=slice(-30, 14))
-    m_ivt = ax_sa.pcolormesh(clim.lon, clim.lat, clim["ivt"], cmap="YlGnBu", vmin=0, vmax=350,
-                             shading="nearest", alpha=0.85, zorder=1)
-    countries.cx[-95:-30, -35:15].boundary.plot(ax=ax_sa, color="#222222", linewidth=0.5, zorder=2)
-    s = slice(1, None, 4)
-    q = ax_sa.quiver(clim.lon[s], clim.lat[s], clim["ivt_e"][s, s], clim["ivt_n"][s, s], scale=2400,
-                     width=0.005, color="#1d1d1b", zorder=4)
-    # Fondo blanco para la barra de colores y la flecha de referencia (esquina inferior izquierda, océano)
-    ax_sa.add_patch(Rectangle((0.01, 0.01), 0.47, 0.25, transform=ax_sa.transAxes, fc="white", ec="#999999",
-                              lw=0.5, alpha=0.92, zorder=5))
-    ax_sa.quiverkey(q, 0.12, 0.05, 250, "250 kg m⁻¹ s⁻¹", labelpos="E", coordinates="axes",
-                    fontproperties={"size": 6.5}, zorder=6)
-    cax_sa = ax_sa.inset_axes([0.05, 0.15, 0.38, 0.035], zorder=6)
-    cb_sa = fig.colorbar(m_ivt, cax=cax_sa, orientation="horizontal")
-    cb_sa.set_ticks([0, 100, 200, 300]); cb_sa.ax.tick_params(labelsize=6, length=2, pad=1)
-    cb_sa.set_label("IVT (kg m⁻¹ s⁻¹)", fontsize=6.5, labelpad=1)
-    cax_sa.xaxis.set_label_position("top")
-else:
-    print(f"Aviso: falta {ERA5_CLIM.name}; correr el script 24 y luego este para el recuadro de humedad.")
+# Solo ubicación regional: el transporte de humedad va en su propia figura (script 31)
 ax_sa.plot(out_ll.x, out_ll.y, "o", color="red", markeredgecolor="white", ms=6, zorder=6)
 ax_sa.set_xlim(-92, -32); ax_sa.set_ylim(-30, 14)
-ax_sa.set_title("Transporte de humedad, estación húmeda (dic–abr)", fontsize=9)
+ax_sa.set_title("Ubicación en Sudamérica", fontsize=9)
 
 ax_pe = fig.add_subplot(gs[1, 1])
 countries.cx[-83:-66, -20:2].plot(ax=ax_pe, color="#eeeeee", edgecolor="#999999", linewidth=0.4)

diff --git a/Hidrologiat1/Codigos/30b_perfiles_inversion.py b/Hidrologiat1/Codigos/30b_perfiles_inversion.py
@@ -267,9 +267,8 @@ for ax in (a1, a2):
         ax.axhspan(r.nube_base_m, r.nube_tope_m, color="#898781", alpha=0.25, lw=0, zorder=0)
 z_dalr = np.array([d.z_m.iloc[0], 5000])
 a1.plot(d.T_C.iloc[0] - 9.8e-3 * (z_dalr - z_dalr[0]), z_dalr, color="#1baf7a", ls="--", lw=1.6,
-        label="Adiabática seca desde la superficie (9.8 °C/km)")
-a1.plot(tp, zs, color="#2a78d6", ls=":", lw=2.2, label="Parcela: seca hasta el NCA, luego adiabática húmeda")
-a1.plot(d5.Td_C, d5.z_m, color="#52514e", lw=1.2, ls="-.", label="Punto de rocío medido")
+        label="Adiabática seca (9.8 °C/km)")
+a1.plot(tp, zs, color="#2a78d6", ls=":", lw=2.2, label="Parcela: seca hasta el NCA y luego húmeda")
 a1.plot(d5.T_C, d5.z_m, color="#0b0b0b", lw=2.2, marker="o", ms=3, label="Temperatura medida")
 if z_nca:
     a1.plot(np.interp(z_nca, zs, tp), z_nca, "o", color="#2a78d6", ms=7, zorder=5)
@@ -278,7 +277,7 @@ if z_nca:
 a1.annotate(f"Inversión: +{r.intensidad_C:.1f} °C en {r.espesor_m:.0f} m", (r.T_tope_C, r.tope_m), xytext=(12, 6),
             textcoords="offset points", fontsize=8.5, color="#b8322f", fontweight="bold")
 a1.set(xlabel="Temperatura (°C)", ylabel="Altitud (m s.n.m.)", ylim=(0, 5000),
-       xlim=(min(d5.Td_C.min(), tp.min()) - 1, max(d5.T_C.max(), d.T_C.iloc[0]) + 4))
+       xlim=(tp[zs <= 5000].min() - 1, max(d5.T_C.max(), d.T_C.iloc[0]) + 4))
 referencias(a1, a1.get_xlim()[0] + 0.3, "left")
 a2.plot(d5.HR, d5.z_m, color="#2a78d6", lw=2.2, marker="o", ms=3, label="Humedad relativa medida")
 a2.axvline(HR_NUBE, color="#898781", lw=0.8)

diff --git a/README.md b/README.md
@@ -44,7 +44,7 @@ pip install -r requirements.txt
 cd Hidrologiat1/Codigos
 ```
 
-Orden de ejecución: `09 → 06 → 07a → 13 → 14 → 10 → 28 → 26 → 07b → 11 → 12 → 17 → 15 → 16 → 18 → 19 → 20 → 21 → 23 → 24 → 25 → 27 → 22 → 30a → 30b → 29`.
+Orden de ejecución: `09 → 06 → 07a → 13 → 14 → 10 → 28 → 26 → 07b → 11 → 12 → 17 → 15 → 16 → 18 → 19 → 20 → 21 → 23 → 24 → 25 → 27 → 22 → 30a → 30b → 31 → 29`.
 
 El script 09 descarga y verifica CAMELS-PE v1.0.1 desde Zenodo. Después hay que **extraer el ZIP**
 en `Tarea 1/CAMELS_PE/`, porque el script 06 lee de ahí el polígono y las estaciones.
